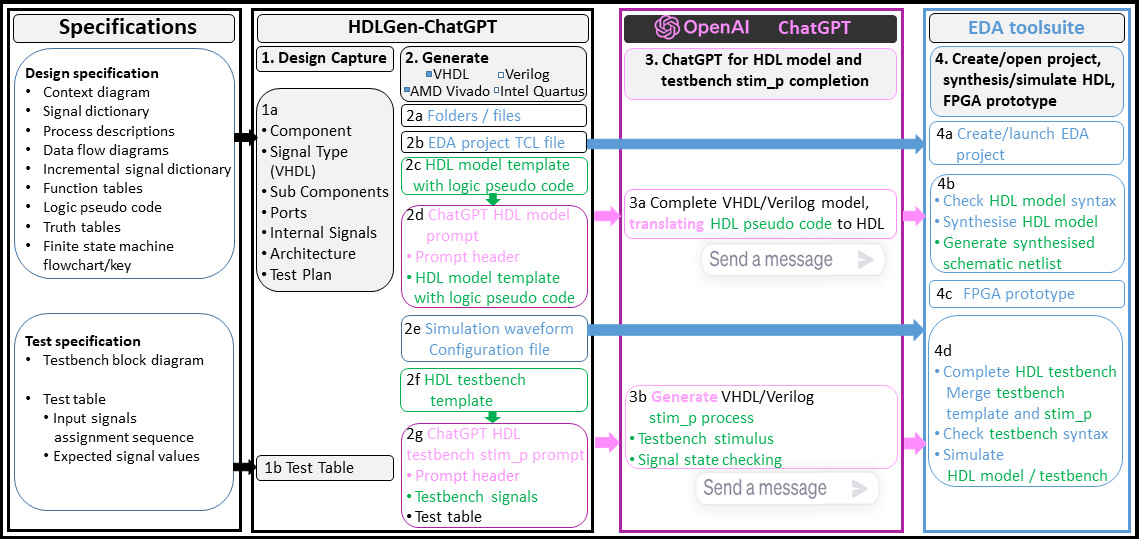
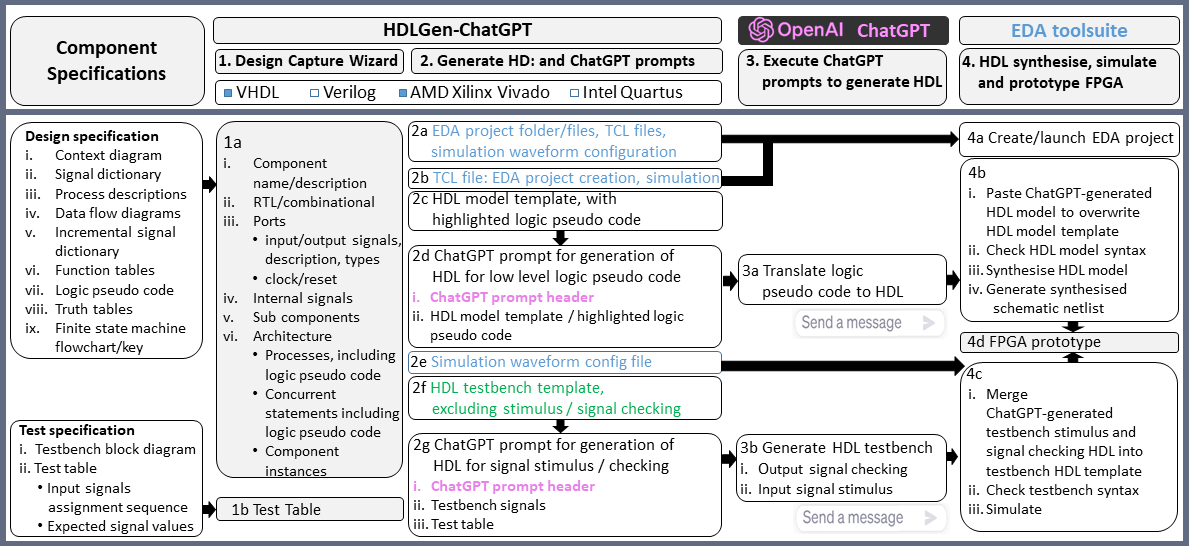
Splash page update

diff --git a/Application/main.py b/Application/main.py
@@ -40,7 +40,7 @@ class HDLGen(QMainWindow):
         title_font.setBold(True)
 
         title_1_font = QFont()
-        title_1_font.setPointSize(15)
+        title_1_font.setPointSize(12)
 
         bold_font = QFont()
         bold_font.setPointSize(10)
@@ -61,8 +61,14 @@ class HDLGen(QMainWindow):
         self.new_btn.setFont(text_font)
         self.help_btn = QPushButton("Help")
         self.help_btn.setFont(text_font)
+        self.help_btn.setStyleSheet(
+            "QPushButton {background-color: white; border-radius: 10px; border-style: plain;padding: 10px; }"
+            " QPushButton:pressed {background-color: white; border-radius: 10px; border-style: plain;padding: 10px;}")
         self.settings_btn = QPushButton("Settings")
         self.settings_btn.setFont(text_font)
+        self.settings_btn.setStyleSheet(
+            "QPushButton {background-color: white; border-radius: 10px; border-style: plain;padding: 10px; }"
+            " QPushButton:pressed {background-color: white; border-radius: 10px; border-style: plain;padding: 10px;}")
         self.open_btn.setStyleSheet(
             "QPushButton {background-color: rgb(97, 107, 129); color: white; border-radius: 10px; border-style: plain;padding: 10px; }"
             " QPushButton:pressed { background-color: rgb(72, 80, 98);  color: white; border-radius: 10px; border-style: plain;padding: 10px;}")
@@ -85,7 +91,7 @@ class HDLGen(QMainWindow):
         self.hdlgen_logo = QLabel("HDLGen-ChatGPT")
         self.hdlgen_logo.setFont(title_font)
         self.hdlgen_logo.setAlignment(Qt.AlignCenter)
-        self.hdlgen_logo_1 = QLabel("Digital Systems Design Capture Automation")
+        self.hdlgen_logo_1 = QLabel("HDLGen-ChatGPT / ChatGPT / EDA Tool Suite Process Flow")
         self.hdlgen_logo_1.setFont(title_1_font)
         self.hdlgen_logo_1.setAlignment(Qt.AlignCenter)
         self.app_description = QLabel(APP_DESCRIPTION)
@@ -101,7 +107,7 @@ class HDLGen(QMainWindow):
             '<a href="https://vicicourse.s3.eu-west-1.amazonaws.com/HDLGen/RSP2023/RSP2023_Top.pdf">Tutorials</a> Tutorial videos on HDLGen/ChatGPT, for a range of design examples')
         self.tutorial_link.setFont(text_font)
         self.tutorial_link.linkActivated.connect(self.link)
-        self.github_link = QLabel('<a href="https://github.com/fearghal1/HDLGen">GitHub</a>\nIf you use the HDLGen application, please include the Github reference to our work')
+        self.github_link = QLabel('<a href="https://github.com/fearghal1/HDLGen">GitHub</a>\nIf you use HDLGen-ChatGPT, please include the Github reference to our work')
         self.github_link.setFont(text_font)
         self.app_authors = QLabel(APP_AUTHORS)
         self.app_authors.setFont(bold_font)
@@ -120,28 +126,34 @@ class HDLGen(QMainWindow):
     def setup_ui(self):
 
         print("Setting up UI")
-
-        self.button_layout.addWidget(self.new_btn, 0, 1,  alignment= Qt.AlignLeft)
-        self.button_layout.addWidget(self.open_btn, 0, 0, alignment= Qt.AlignRight)
+        self.button_layout.addWidget(self.hdlgen_logo,0,0,1,3) #alignment=Qt.AlignLeft)
+        self.button_layout.addWidget(self.new_btn, 0, 5, 1,1) #alignment= Qt.AlignRight)
+        self.button_layout.addWidget(self.open_btn, 0, 4,1,1) #alignment= Qt.AlignRight)
+        self.button_layout.addWidget(self.settings_btn, 0, 6,1,1)# alignment=Qt.AlignRight)
+        self.button_layout.addWidget(self.help_btn, 0, 7,1,1)# alignment=Qt.AlignLeft)
 
         self.info_layout.addSpacerItem(QSpacerItem(1, 25))
 
-        self.info_layout.addWidget(self.hdlgen_logo, alignment= Qt.AlignCenter)
-        self.info_layout.addSpacerItem(QSpacerItem(1, 25))
-        self.info_layout.addWidget(self.app_description, alignment=Qt.AlignCenter)
-        self.info_layout.addSpacerItem(QSpacerItem(1, 25))
-        self.info_layout.addWidget(self.processphoto, alignment=Qt.AlignCenter)
+        #self.info_layout.addWidget(self.hdlgen_logo, alignment= Qt.AlignCenter)
         self.info_layout.addSpacerItem(QSpacerItem(1, 25))
         self.info_layout.addLayout(self.button_layout)
+       # self.info_layout.addWidget(self.processphoto, alignment=Qt.AlignCenter)
         self.info_layout.addSpacerItem(QSpacerItem(1, 25))
+        self.info_layout.addWidget(self.hdlgen_logo_1, alignment=Qt.AlignCenter)
+        self.info_layout.addSpacerItem(QSpacerItem(1, 5))
+        #self.info_layout.addLayout(self.button_layout)
+        self.info_layout.addWidget(self.processphoto, alignment=Qt.AlignCenter)
+        self.info_layout.addSpacerItem(QSpacerItem(1, 5))
+        self.info_layout.addWidget(self.github_link, alignment=Qt.AlignCenter)
         self.info_layout.addWidget(self.vici_link, alignment=Qt.AlignCenter)
+        self.info_layout.addWidget(self.chatgpt_link, alignment=Qt.AlignCenter)
         self.info_layout.addSpacerItem(QSpacerItem(1, 10))
 
-        self.mainLayout.addWidget(self.settings_btn_spacer, alignment=Qt.AlignTop)
-        self.mainLayout.addWidget(self.help_btn_spacer, alignment=Qt.AlignTop)
+       # self.mainLayout.addWidget(self.settings_btn_spacer, alignment=Qt.AlignTop)
+        #self.mainLayout.addWidget(self.help_btn_spacer, alignment=Qt.AlignTop)
         self.mainLayout.addLayout(self.info_layout)
-        self.mainLayout.addWidget(self.settings_btn, alignment=Qt.AlignTop)
-        self.mainLayout.addWidget(self.help_btn, alignment=Qt.AlignTop)
+        #self.mainLayout.addWidget(self.settings_btn, alignment=Qt.AlignTop)
+        #self.mainLayout.addWidget(self.help_btn, alignment=Qt.AlignTop)
 
 
         self.setLayout(self.mainLayout)
@@ -181,8 +193,10 @@ class HDLGen(QMainWindow):
 def main():
     app = QApplication(sys.argv)
     window = HDLGen()
+    window.setWindowFlags(window.windowFlags() | Qt.WindowMaximizeButtonHint)
     window.move(0, 0)
     window.show()
+    #window.showMaximized()
     app.setStyle('windowsvista')
     app.exec_()
 
